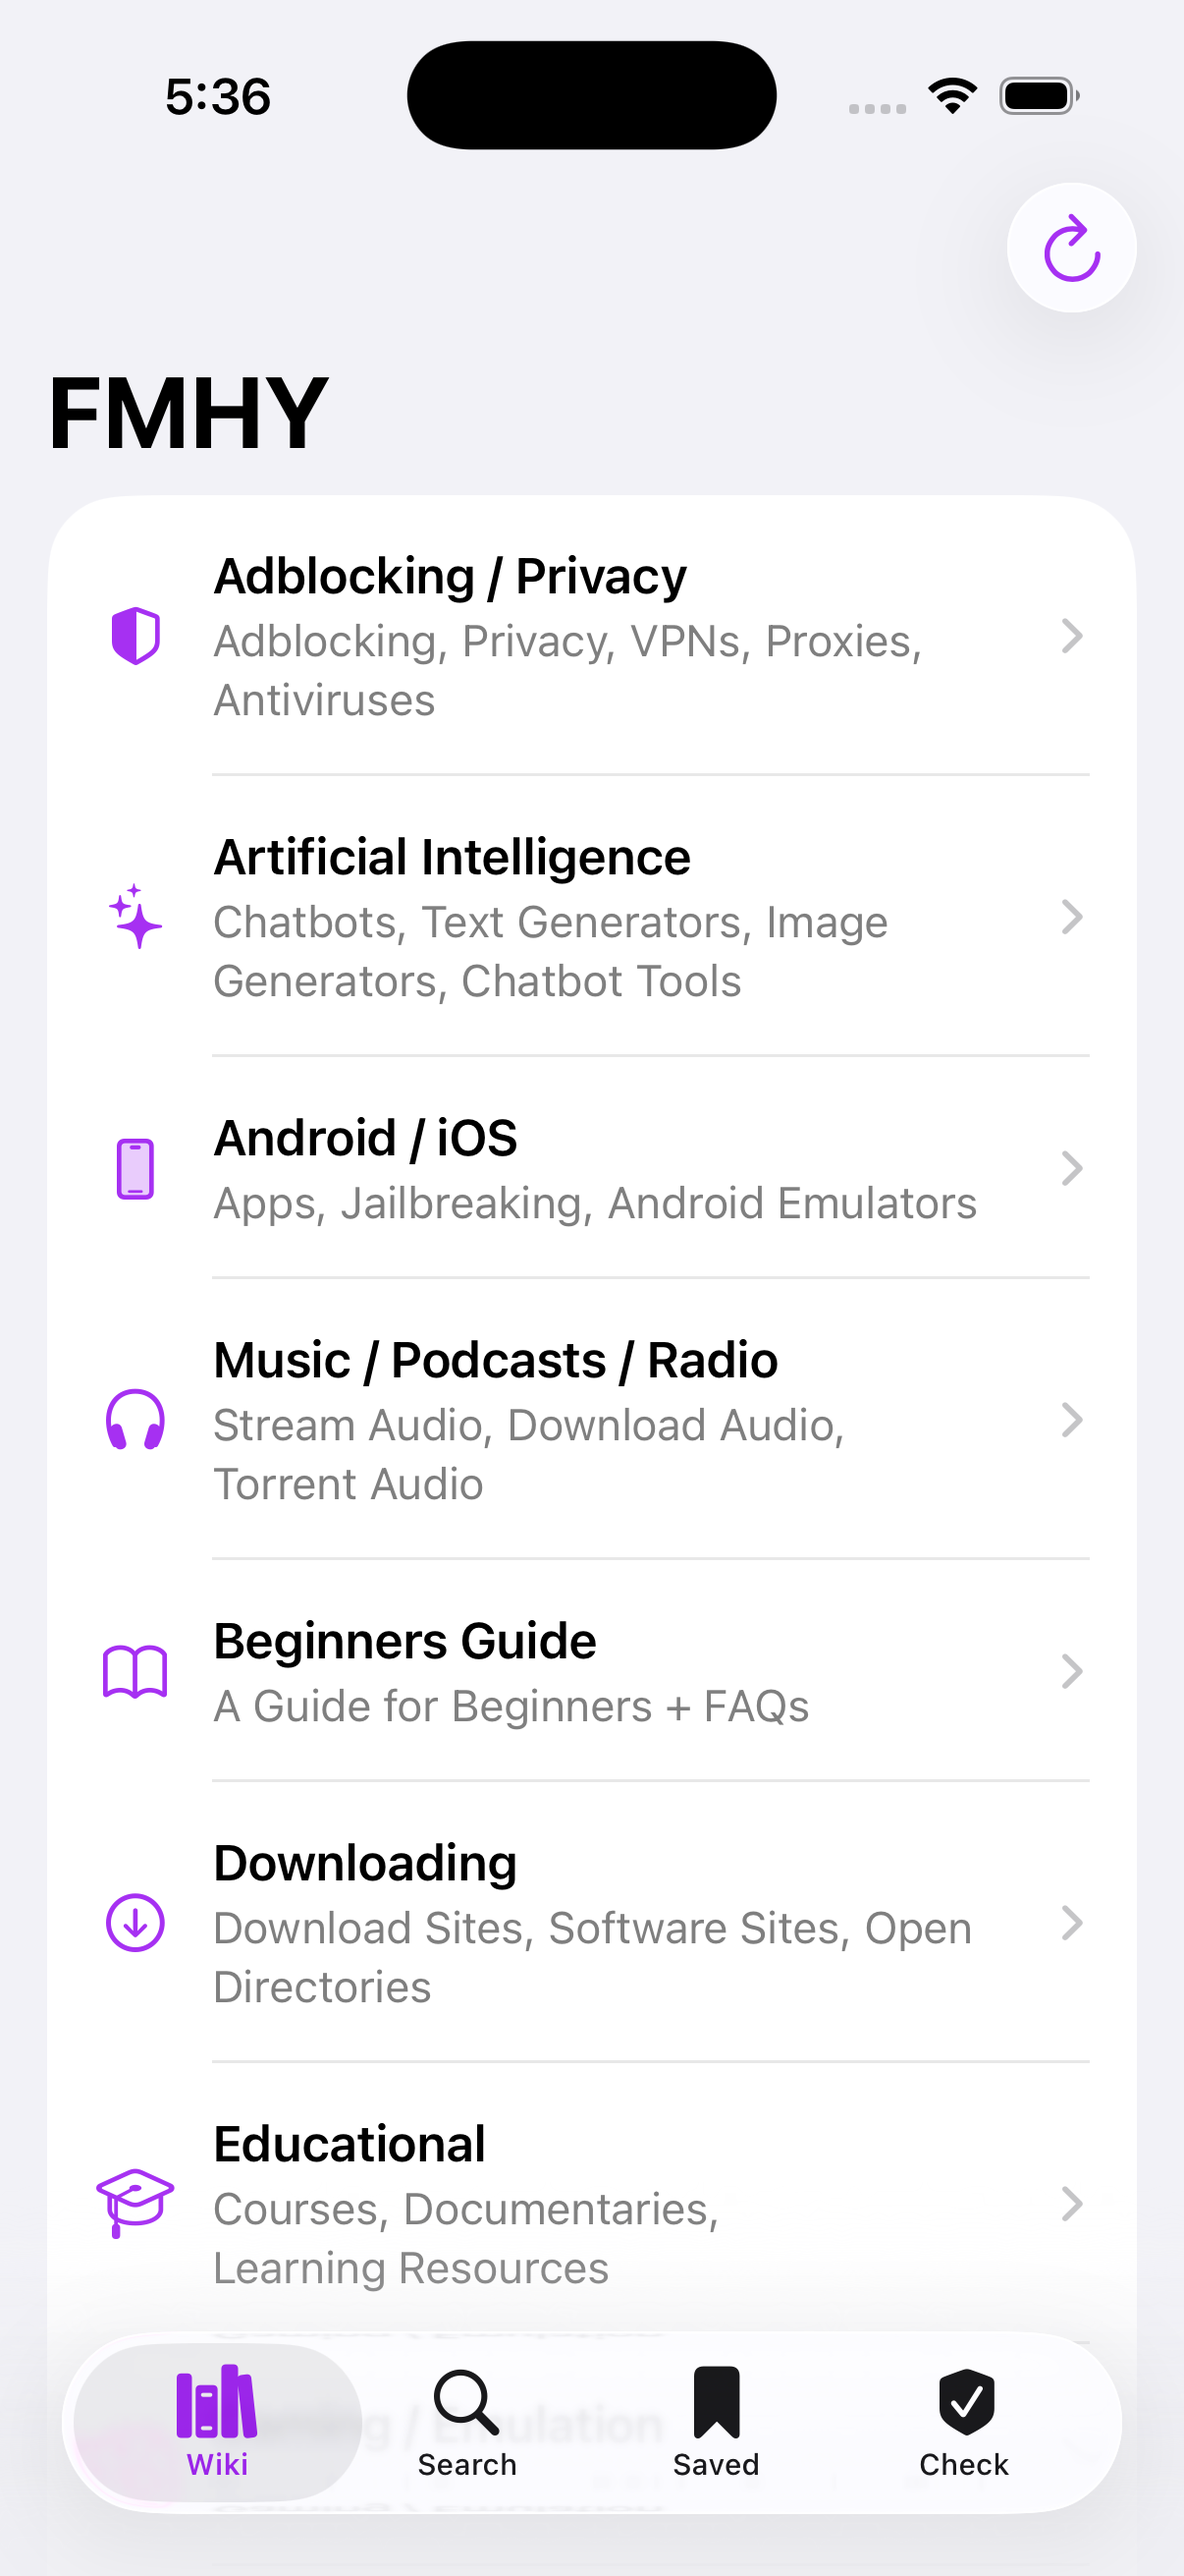
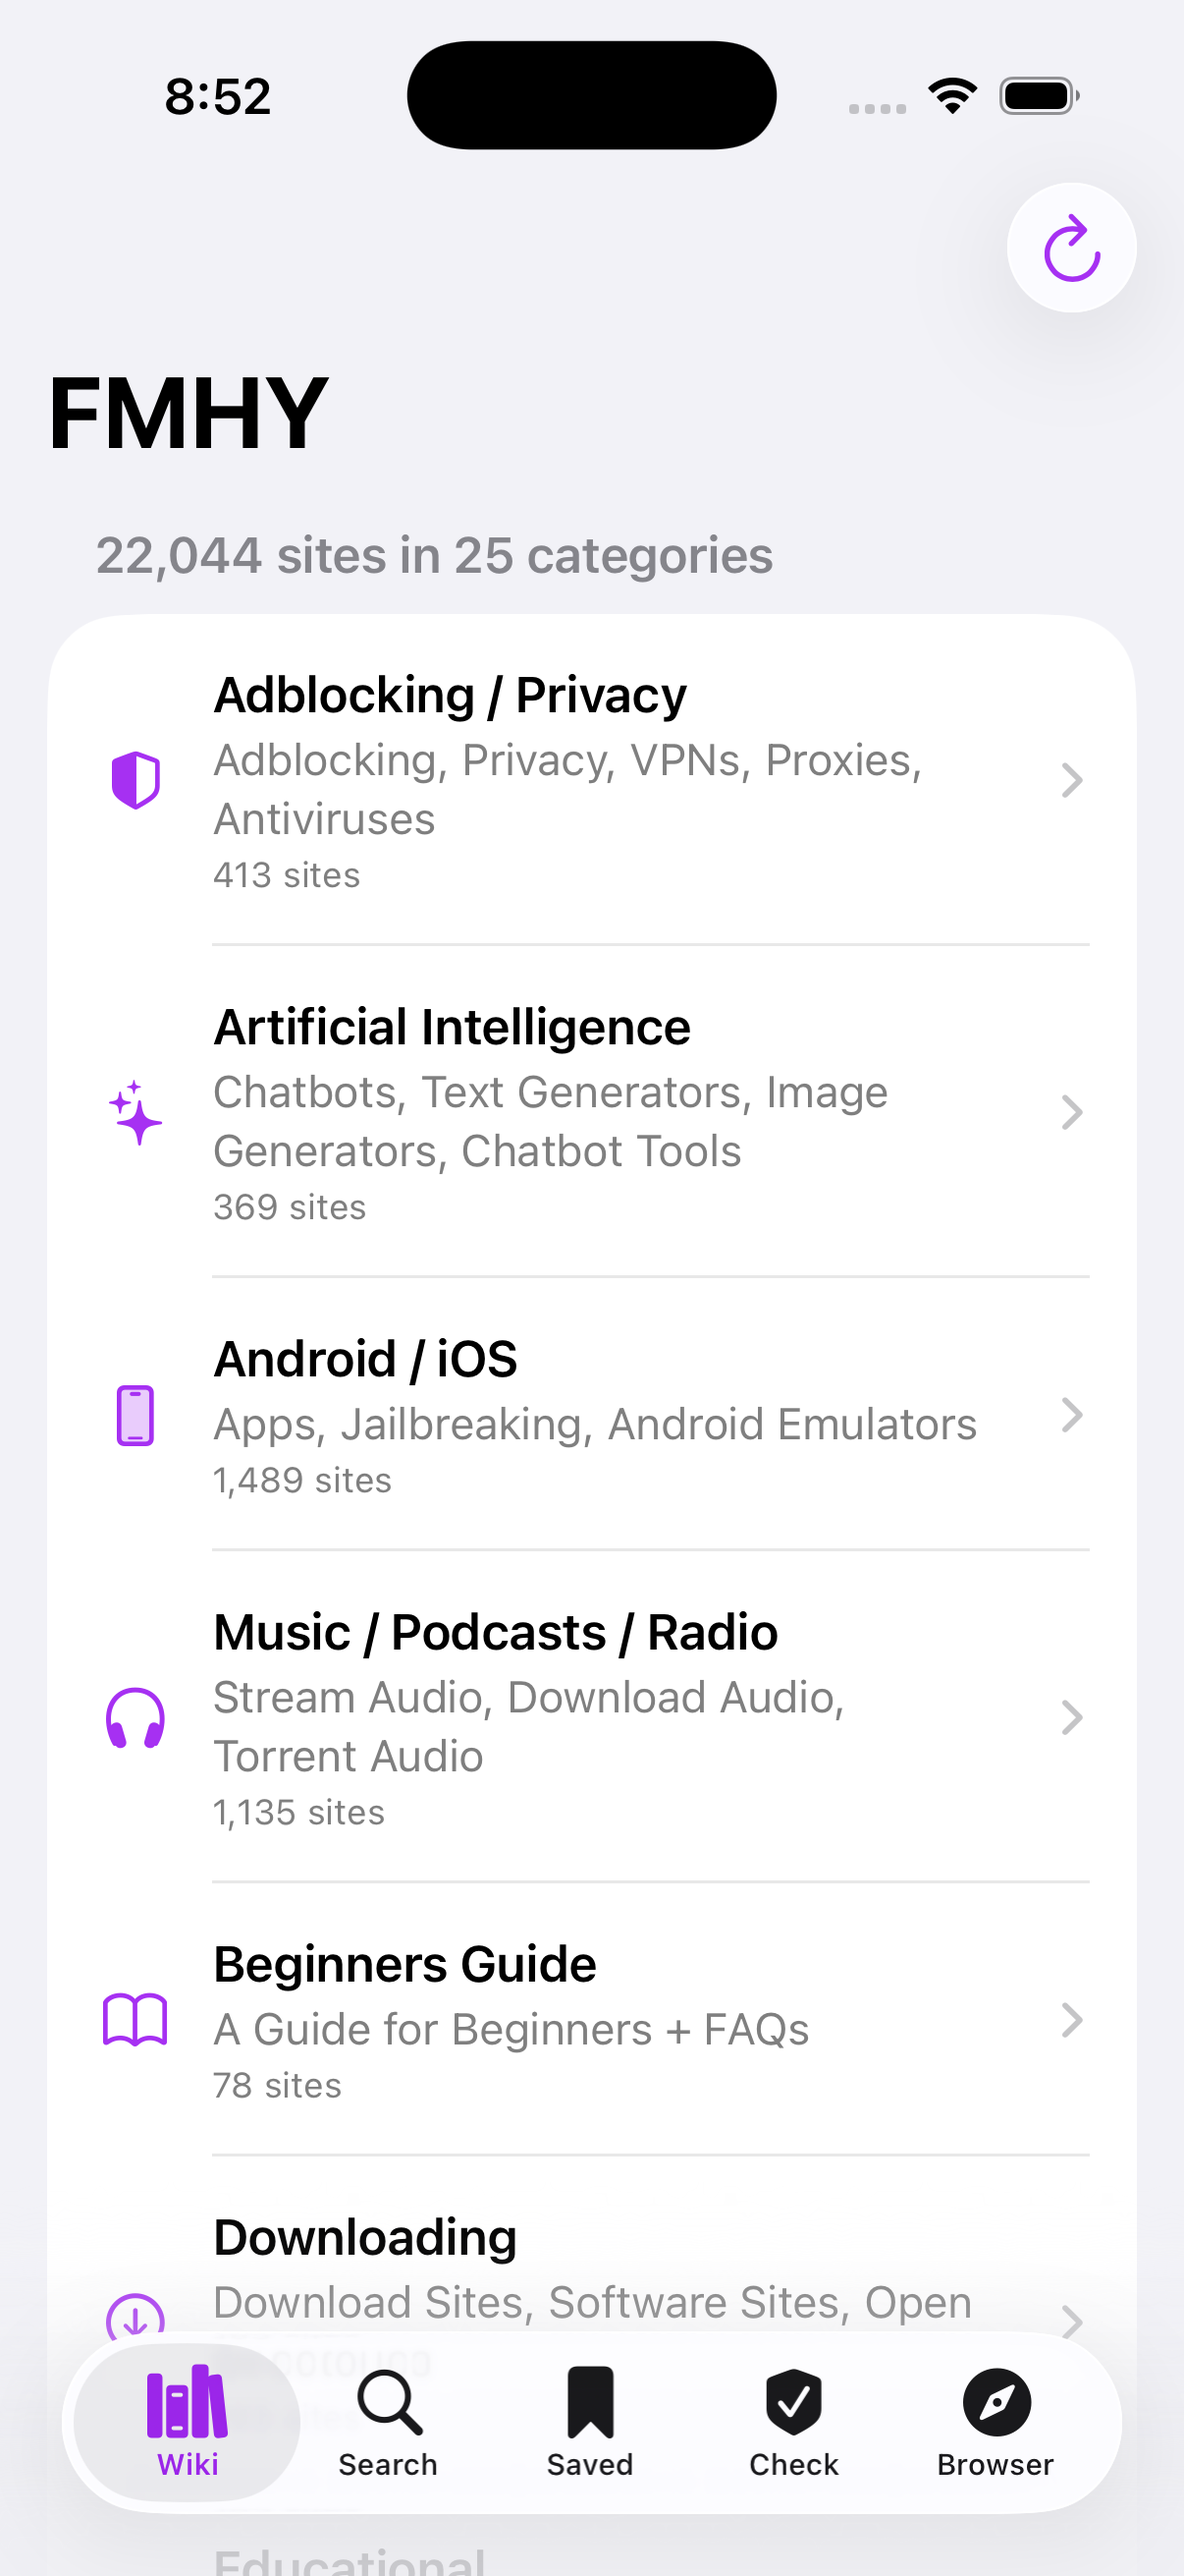
Release 1.1.0: README, notes, version

diff --git a/README.md b/README.md
@@ -10,7 +10,7 @@ iOS 17+ · Free & open source · No ads · No tracking · No accounts
 
 [**⬇ Download the latest .ipa**](https://github.com/spananide/fmhy-ios/releases/latest) · [🐞 Send feedback](https://github.com/spananide/fmhy-ios/issues/new/choose)
 
-<img src="docs/home.png" width="200" alt="Wiki"> <img src="docs/search.png" width="200" alt="Search"> <img src="docs/check.png" width="200" alt="Link check">
+<img src="docs/home.png" width="200" alt="Wiki"> <img src="docs/search.png" width="200" alt="Search"> <img src="docs/check.png" width="200" alt="Link check"> <img src="docs/browser.png" width="200" alt="Browser">
 
 </div>
 
@@ -22,9 +22,12 @@ The official iOS port of [FMHY for Android](https://github.com/omeg4-dev/fmhy-an
 - 🌟 Stars and top picks, mirrors and extra links per site, base64-hidden links decoded for you.
 - 🔖 **Saved:** swipe a site to bookmark it, share your list.
 - 🛡 **Check:** paste a link to see if it is on FMHY, starred, on the unsafe list, or a clone (uses the [FMHY SafeGuard](https://github.com/fmhy/FMHY-SafeGuard) lists).
-- 🔒 No analytics, no servers of mine in between. Links open in Safari view.
+- 🌐 **Built-in browser:** tabs, private tabs, address/search bar, desktop-site toggle, a badge that tells you if the current site is on FMHY, and a warning page before FMHY-listed unsafe sites.
+- 🚫 **Ad blocking:** ~119,000 rules (EasyList, EasyPrivacy, Peter Lowe's list, FMHY filterlist), cookie-banner hiding and popup limiting, switchable per site.
+- 📊 Site counts: the total and per category on the Wiki tab.
+- 🔒 No analytics, no servers of mine in between.
 
-Not in the iOS version (yet): built-in browser with ad blocking, download manager, VirusTotal scans, widgets, changelog feed. Use a Safari content blocker (e.g. uBlock Origin Lite / AdGuard) for ads.
+Coming next: What's new feed, settings and themes, downloads, VirusTotal check. Not planned: Android-only features (Material You, shortcuts).
 
 ## Install (free, no Mac needed)
 The app is not on the App Store, so you sideload the `.ipa` from [Releases](https://github.com/spananide/fmhy-ios/releases/latest).

diff --git a/RELEASE_NOTES.md b/RELEASE_NOTES.md
@@ -1,9 +1,10 @@
-First release of FMHY for iOS (iOS 17+).
+**What's new in 1.1.0**
+- Built-in browser with tabs, private tabs and an "is this site on FMHY?" badge
+- Ad blocking (~119,000 rules), cookie-banner hiding, popup limiting, per-site switch
+- Warning page before opening sites on the FMHY unsafe list
+- Site counts: total and per category on the Wiki tab
+- Links from the wiki now open in the built-in browser (a setting to use Safari instead is stored as `openInSafari`)
 
-**Install:** download the `.ipa` below and sideload it with [Sideloadly](https://sideloadly.io) or SideStore/AltStore. Step by step instructions are in the [README](https://github.com/spananide/fmhy-ios#install-free-no-mac-needed).
-
-- Whole wiki offline, refreshable
-- Typo-tolerant search with filters
-- Bookmarks, link checker, Safari view
+**Install:** download the `.ipa` below and sideload it with [Sideloadly](https://sideloadly.io), SideStore/AltStore, or on Linux with Sideloader/iloader. Details in the [README](https://github.com/spananide/fmhy-ios#install-free-no-mac-needed).
 
 Official iOS port of FMHY for Android (omeg4-dev); a community app, not an official FMHY project. Feedback: [open an issue](https://github.com/spananide/fmhy-ios/issues/new/choose).
